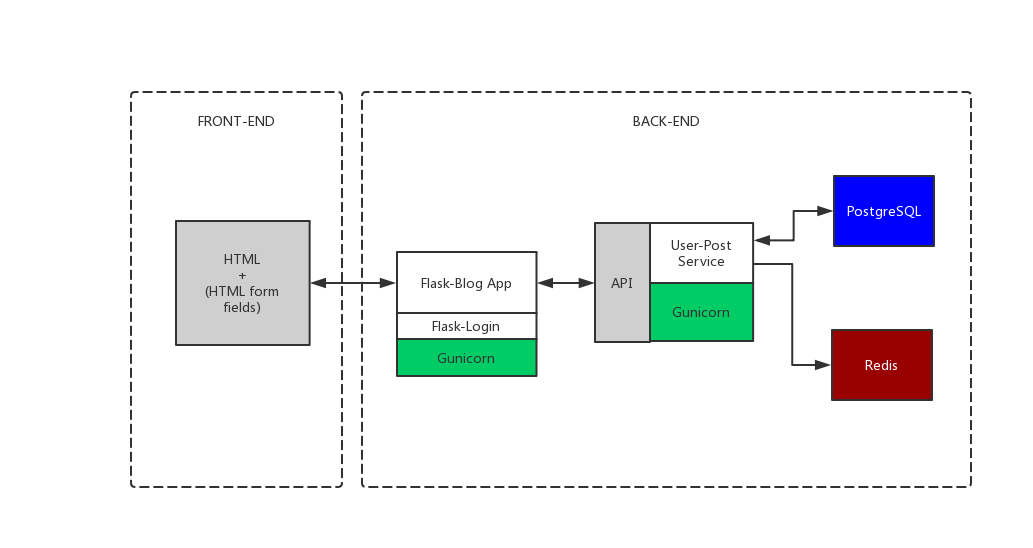
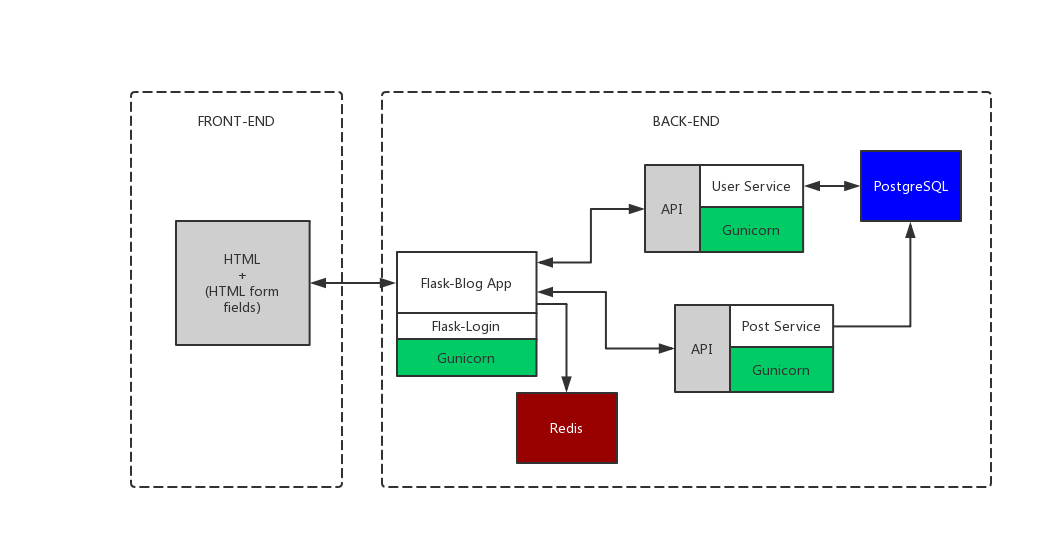
Refactor out post_service

diff --git a/user_service/user_service/models.py b/user_service/user_service/models.py
@@ -1,0 +1,104 @@
+# -*- coding: utf-8 -*-
+
+"""
+Authentication-related models module.
+"""
+
+from datetime import datetime
+
+from marshmallow import EXCLUDE, fields
+
+from . import db, ma
+
+##### MODELS #####
+
+
+class User(db.Model):
+    """
+    User model.
+    """
+    __tablename__ = 'users'
+
+    IMAGE_FILE_MAX_LEN = 20
+
+    id = db.Column(db.Integer, primary_key=True)
+    username = db.Column(db.String(20), unique=True, nullable=False, index=True)
+    email = db.Column(db.String(120), unique=True, nullable=False, index=True)
+    # Since we'll frequently query usernames and emails, we create indices on
+    # them,
+    password = db.Column(db.String(255), nullable=False)
+    image_file = db.Column(db.String(20), nullable=False, default='default.jpg')
+    posts = db.relationship('Post', backref='author', lazy=True)
+    # Since the relationship is lazy-loaded, "user.posts" is loaded from the
+    # database only when actually accessing it.
+
+    def __repr__(self):
+        return f"User('{self.username}', '{self.email}', '{self.image_file}')"
+
+
+class Post(db.Model):
+    """
+    Post table.
+    """
+    __tablename__ = 'posts'
+
+    id = db.Column(db.Integer, primary_key=True)
+    user_id = db.Column(
+        db.Integer, db.ForeignKey('users.id', ondelete='CASCADE'),
+        nullable=False
+    )  # When the user is deleted, all of his/her posts are deleted as well.
+    title = db.Column(db.String(100), nullable=False)
+    content = db.Column(db.Text, nullable=False)
+    date_posted = db.Column(
+        db.DateTime, nullable=False, default=datetime.utcnow
+    )
+
+    def __repr__(self):
+        return f"Post('{self.title}', '{self.date_posted}')"
+
+
+##### SCHEMAS #####
+# Note!!!!!
+# The data validation is done in the upstream "flask_blog_app" on form level, so
+# no validation is needed on schema level, i.e., these UserSchema and PostScehma
+# is only used for data serialization.
+
+
+class UserSchema(ma.Schema):
+    """
+    User schema.
+    """
+
+    id = fields.Int(dump_only=True)
+    username = fields.Str(required=True)
+    email = fields.Email(required=True)
+    password = fields.Str(required=True, load_only=True)
+    image_file = fields.Str()
+
+
+    class Meta:
+        unknown = EXCLUDE
+
+
+user_schema = UserSchema()
+
+
+class PostSchema(ma.Schema):
+    """
+    Post schema.
+    """
+
+    id = fields.Int(dump_only=True)
+    author = fields.Nested(
+        UserSchema, required=True, only=('username', 'image_file')
+    )
+    title = fields.Str(required=True)
+    content = fields.Str(required=True)
+    date_posted = fields.DateTime(dump_only=True)
+
+    class Meta:
+        unknown = EXCLUDE
+
+
+post_schema = PostSchema()
+posts_schema = PostSchema(many=True)

diff --git a/flask_app/flask_blog/posts/routes.py b/flask_app/flask_blog/posts/routes.py
@@ -26,7 +26,7 @@ def post_detail(id: int):
     :param id: int
     :return:
     """
-    r = requests.get(f'http://user_post_service:8000/posts/{id}')
+    r = requests.get(f'http://post_service:8000/posts/{id}')
     if r.status_code == 404:
         flash(r.json()['message'], category='dangerous')
         return redirect(url_for('main.home'))
@@ -48,7 +48,7 @@ def new_post():
     form = forms.PostForm()
     if form.validate_on_submit():  # "POST" request successful
         r = requests.post(
-            'http://user_post_service:8000/posts',
+            'http://post_service:8000/posts',
             json={
                 'user_id': flask_login.current_user.id,
                 'title': form.title.data,
@@ -75,7 +75,7 @@ def update_post(id: int):
     :param id: int
     :return:
     """
-    r = requests.get(f'http://user_post_service:8000/posts/{id}')
+    r = requests.get(f'http://post_service:8000/posts/{id}')
     if r.status_code == 404:
         flash(r.json()['message'], category='dangerous')
         return redirect(url_for('main.home'))
@@ -84,7 +84,7 @@ def update_post(id: int):
     form = forms.PostForm()
     if form.validate_on_submit():  # "POST" request successful
         r = requests.put(
-            f'http://user_post_service:8000/posts/{id}', json={
+            f'http://post_service:8000/posts/{id}', json={
                 'operator_id': flask_login.current_user.id,
                 'title': form.title.data,
                 'content': form.content.data
@@ -117,7 +117,7 @@ def delete_post(id: int):
     :return:
     """
     r = requests.delete(
-        f'http://user_post_service:8000/{id}',
+        f'http://post_service:8000/{id}',
         json={
             'operator_id': flask_login.current_user.id
         }

diff --git a/flask_app/flask_blog/auth/routes.py b/flask_app/flask_blog/auth/routes.py
@@ -31,7 +31,7 @@ def user_posts(username: str):
     """
     page = request.args.get('page', type=int, default=1)
     r = requests.get(
-        f'http://user_post_service:8000/posts?username={username}&page={page}'
+        f'http://post_service:8000/posts?username={username}&page={page}'
     )
     if r.status_code == 404:
         flash(r.json()['message'], category='dangerous')
@@ -66,7 +66,7 @@ def register():
     form = forms.RegistrationForm()
     if form.validate_on_submit():  # Successful passed form validation
         r = requests.post(
-            'http://user_post_service:8000/users', json={
+            'http://user_service:8000/users', json={
                 'username': form.username.data,
                 'email': form.email.data,
                 'password': form.password.data,
@@ -101,7 +101,7 @@ def login():
     form = forms.LoginForm()
     if form.validate_on_submit():  # Successful passed form validation
         r = requests.get(
-            f'http://user_post_service:8000/user-auth?email={form.email.data}',
+            f'http://user_service:8000/user-auth?email={form.email.data}',
             json={
                 'password': form.password.data
             }
@@ -149,7 +149,7 @@ def account():
         if update:
             user_id = flask_login.current_user.user_id
             r = requests.put(
-                f'http://user_post_service/users/{user_id}',
+                f'http://user_service/users/{user_id}',
                 json=update
             )
             if r.status_code == 200:

diff --git a/post_service/post_service/resources/post.py b/post_service/post_service/resources/post.py
@@ -4,11 +4,12 @@
 Post-related RESTful API module.
 """
 
+import requests
 from flask import request
 from flask_restful import Resource
 
 from .. import db
-from ..models import Post, User, post_schema, posts_schema
+from ..models import Post, post_schema, posts_schema
 from ..utils import paginate
 
 
@@ -27,11 +28,13 @@ class PostList(Resource):
         username = request.args.get('username')
         if username:
             user = User.query.filter_by(username=username).first()
-            if not user:
-                return {
-                    'message': f'No user with username {username}'
-                }, 404
-            return Post.query.filter_by(user_id=user.id)
+            r = requests.get(
+                f'http://user_service:8000/users?username={username}'
+            )
+            if r.status_code == 404:
+                return r.json(), r.status_code
+            user_data = r.json()['data']
+            return Post.query.filter_by(user_id=user_data['id'])
 
         return Post.query
 

diff --git a/post_service/post_service/config.py b/post_service/post_service/config.py
@@ -1,0 +1,22 @@
+# -*- coding: utf-8 -*-
+
+"""
+Flask application configurations module.
+"""
+
+
+class Config:
+    """
+    Flask application configuration class.
+    """
+
+    # Generate the secret key using secrets.token_hex(16)
+    SECRET_KEY = 'a2c6ba730959debd7e7d8d92b9b75b97'
+
+    # Configure the SQLAlchemy-related options
+    postgres_user = 'postgres'
+    postgres_password = 'password'
+    postgres_hostname = 'db'
+    postgres_db = 'flask_blog'
+    SQLALCHEMY_DATABASE_URI = f'postgres://{postgres_user}:{postgres_password}@{postgres_hostname}/{postgres_db}'
+    SQLALCHEMY_TRACK_MODIFICATIONS = False

diff --git a/post_service/post_service/__init__.py b/post_service/post_service/__init__.py
@@ -1,0 +1,29 @@
+from flask import Flask
+from flask_marshmallow import Marshmallow
+from flask_sqlalchemy import SQLAlchemy
+
+from .config import Config
+
+db = SQLAlchemy()
+ma = Marshmallow()
+
+
+def create_app(config=Config) -> Flask:
+    """
+    Application factory.
+    :return: Flask
+    """
+    app = Flask(__name__)
+    app.config.from_object(config)
+
+    db.init_app(app)
+    ma.init_app(app)
+
+    # Implementation with extension:
+    from .api import api_bp
+    app.register_blueprint(api_bp)
+
+    with app.app_context():
+        db.create_all()
+
+    return app

diff --git a/user_service/user_service/api.py b/user_service/user_service/api.py
@@ -7,7 +7,6 @@ API definition module.
 from flask import Blueprint
 from flask_restful import Api
 
-from .resources.post import PostItem, PostList
 from .resources.user import UserAuth, UserItem, UserList
 
 # Create an API-related blueprint
@@ -17,5 +16,3 @@ api = Api(api_bp)
 api.add_resource(UserList, '/users')
 api.add_resource(UserItem, '/users/<int:id>')
 api.add_resource(UserAuth, '/user-auth')
-api.add_resource(PostList, '/posts')
-api.add_resource(PostItem, '/posts/<int:id>')

diff --git a/post_service/post_service/api.py b/post_service/post_service/api.py
@@ -1,0 +1,17 @@
+# -*- coding: utf-8 -*-
+
+"""
+API definition module.
+"""
+
+from flask import Blueprint
+from flask_restful import Api
+
+from .resources.post import PostItem, PostList
+
+# Create an API-related blueprint
+api_bp = Blueprint(name='api', import_name=__name__)
+
+api = Api(api_bp)
+api.add_resource(PostList, '/posts')
+api.add_resource(PostItem, '/posts/<int:id>')

diff --git a/flask_app/flask_blog/main/routes.py b/flask_app/flask_blog/main/routes.py
@@ -25,7 +25,7 @@ def home():
     """
     page = request.args.get('page', type=int, default=1)
     r = requests.get(
-        f'http://user_post_service:8000/posts?page={page}&per_page=3'
+        f'http://post_service:8000/posts?page={page}&per_page=3'
     )
     paginated_data = r.json()
     pages = paginated_data['pagination_meta']['pages']

diff --git a/flask_app/flask_blog/models.py b/flask_app/flask_blog/models.py
@@ -48,6 +48,6 @@ def _get_user(id: int) -> Optional[dict]:
     :param id: int
     :return: dict or None
     """
-    r = requests.get(f'http://user_post_service:8000/users/{id}')
+    r = requests.get(f'http://user_service:8000/users/{id}')
     if r.status_code == 200:
         return r.json()['data']
